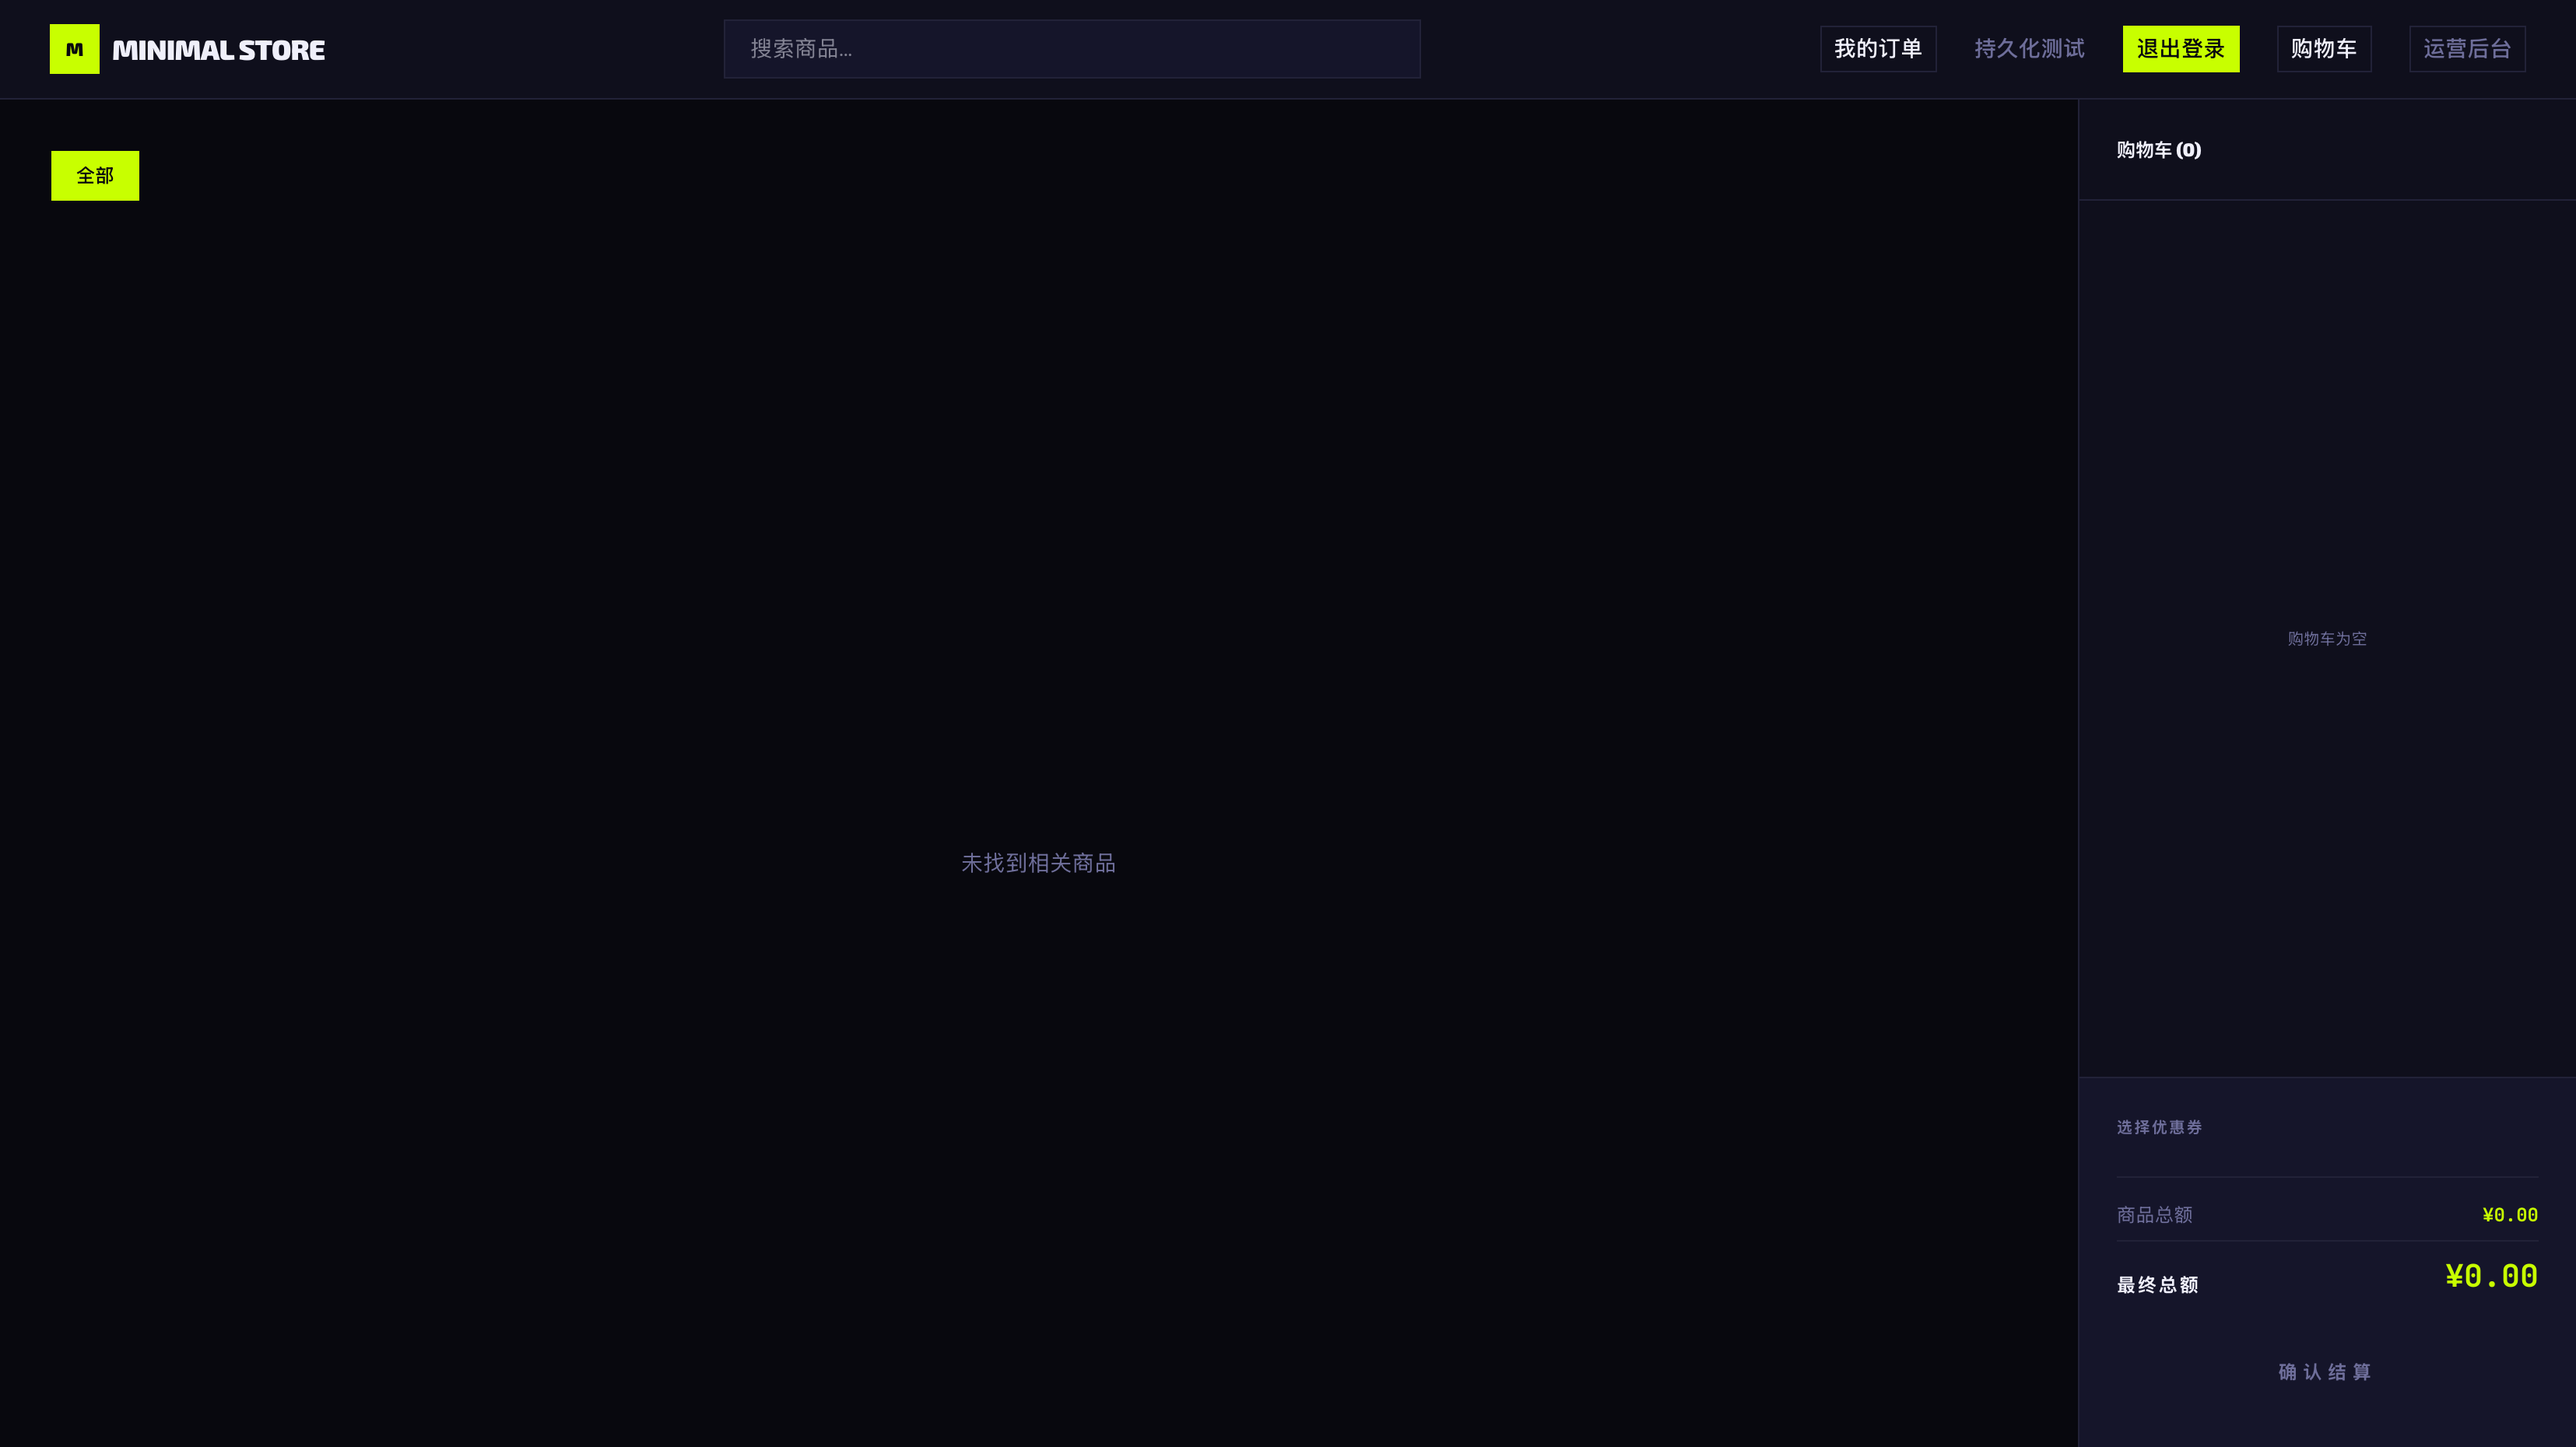
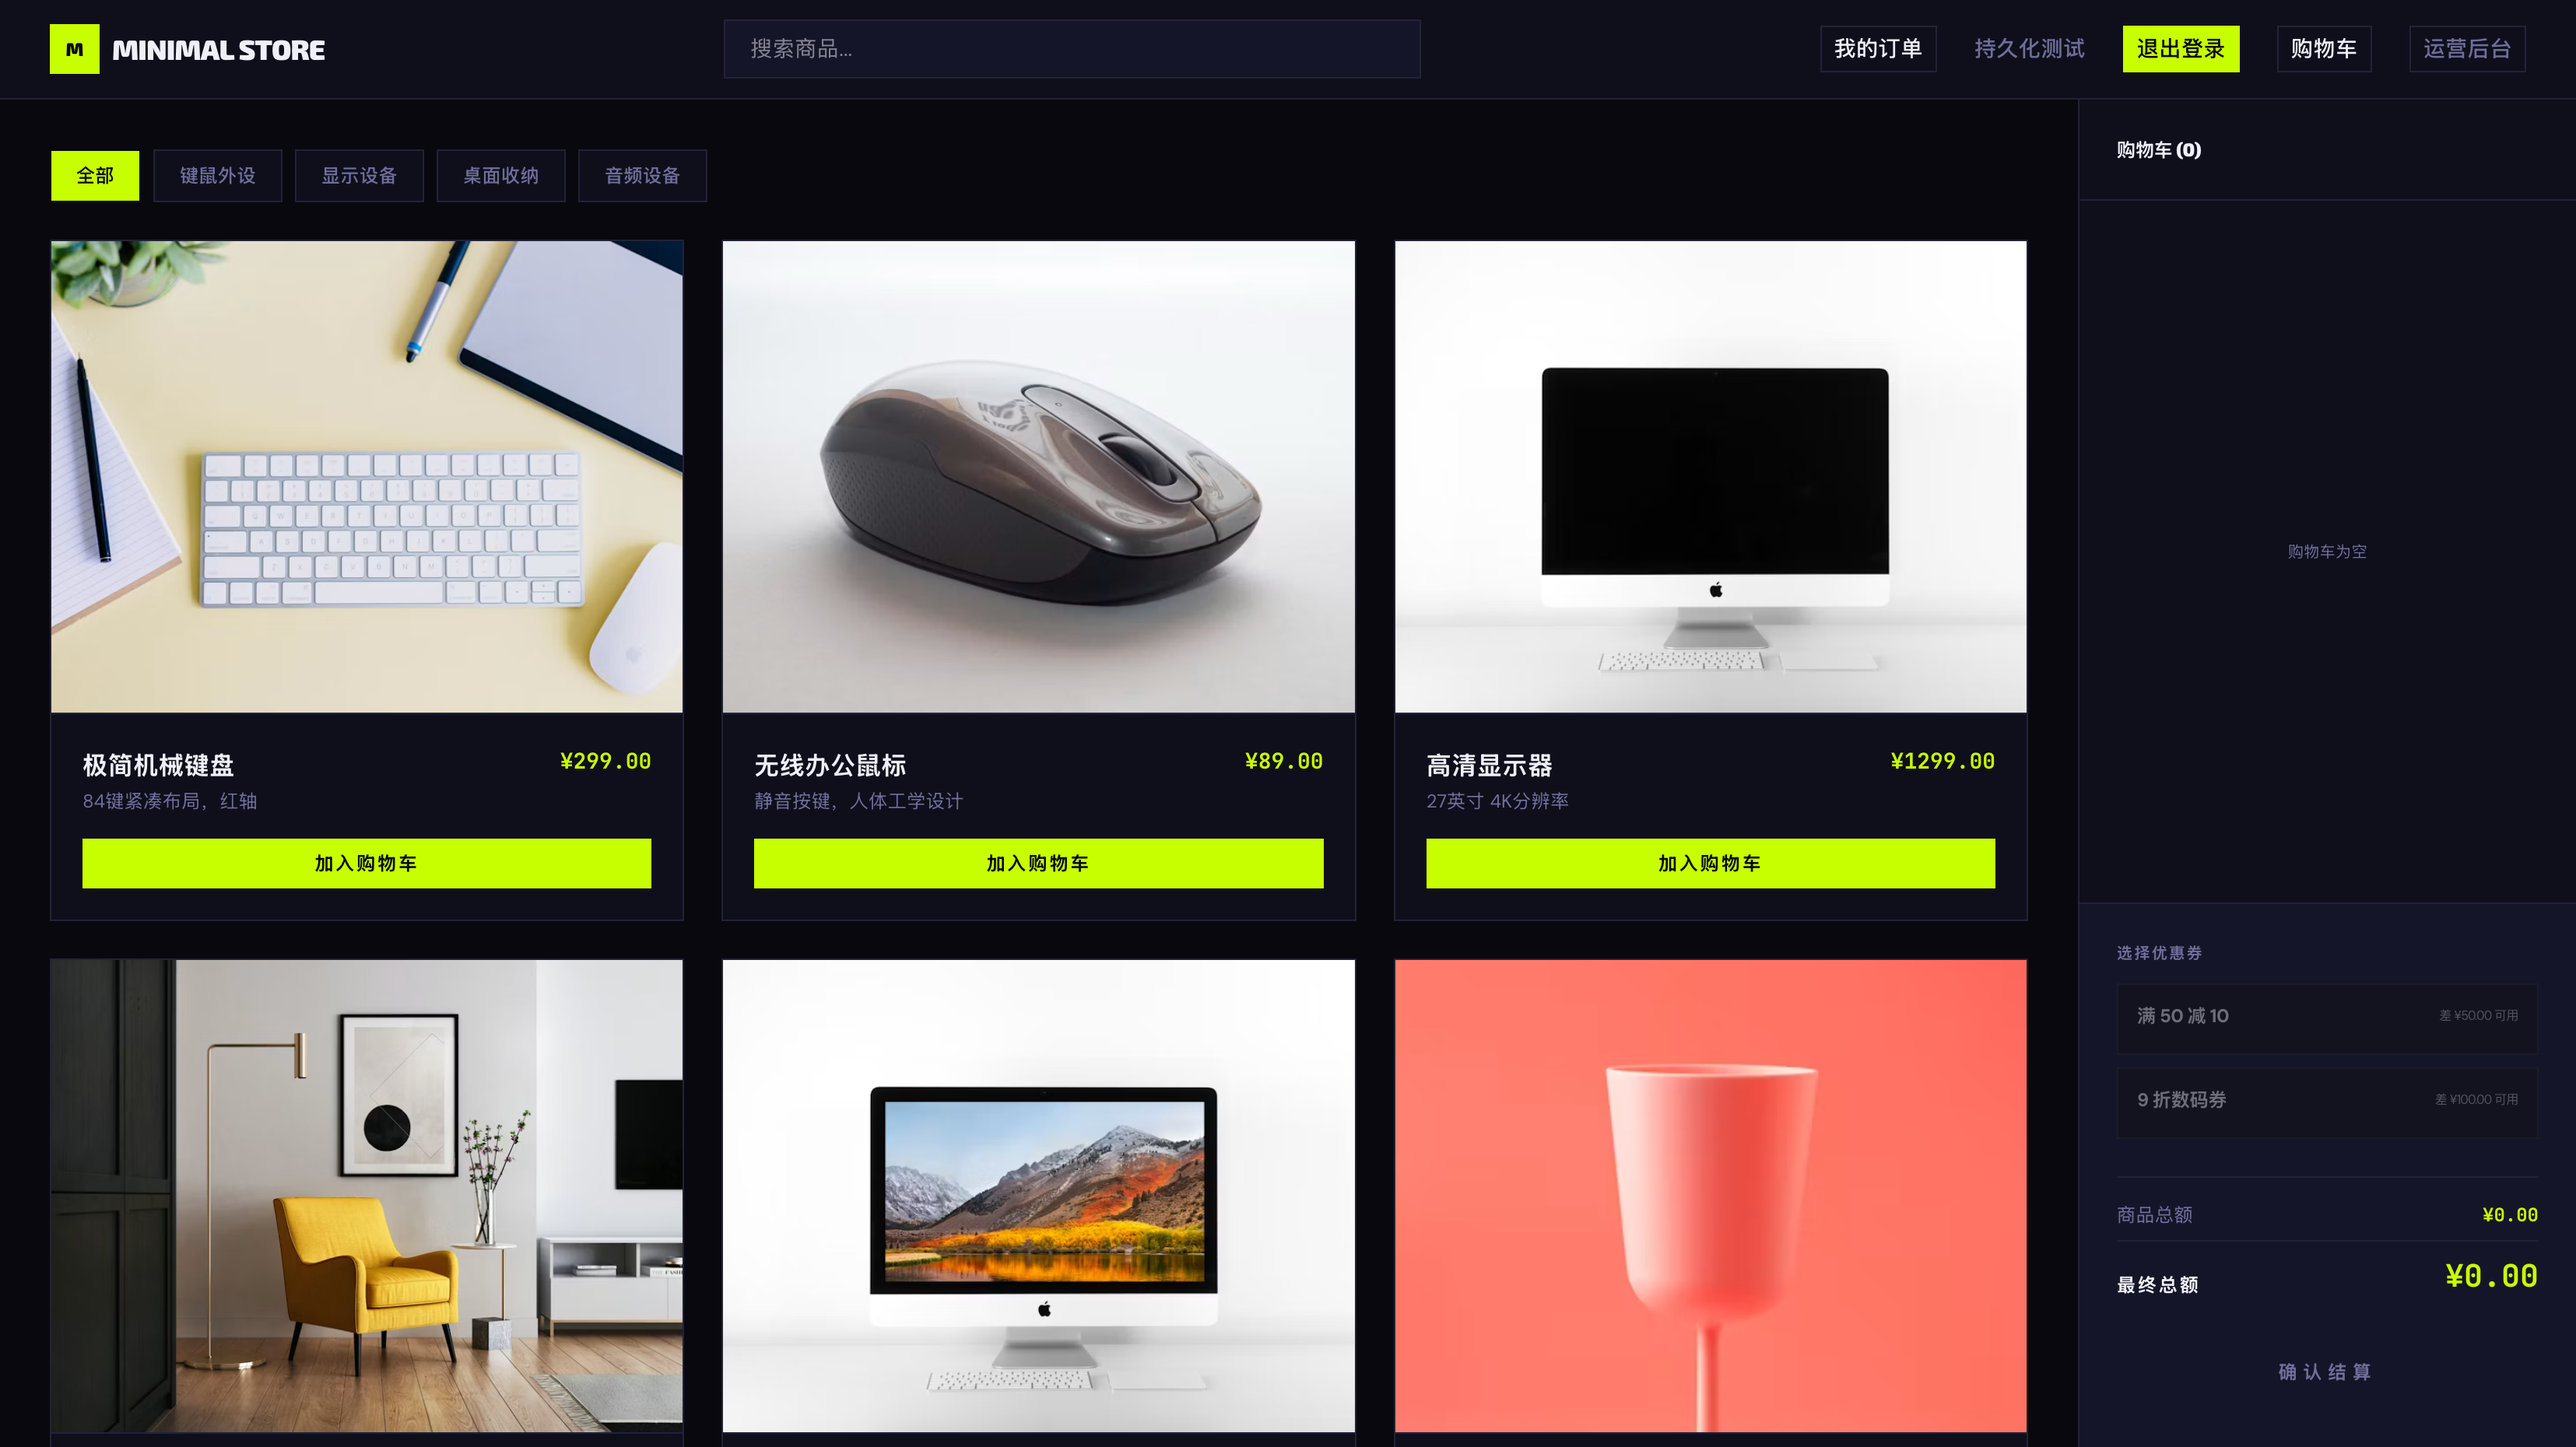
apply new design system

diff --git a/e2e-tests/steps/nav_cb_entry.js b/e2e-tests/steps/nav_cb_entry.js
@@ -75,7 +75,7 @@ Then('C 端 header 不存在「店铺 | 运营后台」分段切换控件', asyn
   // 分段切换控件（店铺 | 运营后台）已移除：header 中不应存在「店铺」独立切换按钮
   expect(await header.locator('button:has-text("店铺")').count()).to.equal(0);
   // 分段容器（含「店铺」按钮且并列「运营后台」按钮）不应存在
-  const segment = header.locator('div.flex.items-center.border.border-slate-200.text-xs.font-bold');
+  const segment = header.locator('div.flex.items-center.border.border-border.text-xs.font-bold');
   expect(await segment.count()).to.equal(0);
 });
 

diff --git a/e2e-tests/steps/account_register.js b/e2e-tests/steps/account_register.js
@@ -74,7 +74,8 @@ Then('页面提示"该手机号已注册，请直接登录"', async function () 
 });
 
 Then('页面提供跳转登录入口', async function () {
-  const banner = this.page.locator('div.bg-red-50').first();
+  // 行为断言：错误横幅提示「去登录」入口存在（ZAPP 语义令牌 bg-accent/10 + text-accent，不再依赖旧视觉类名）
+  const banner = this.page.locator('div.text-accent').first();
   const text = await banner.textContent();
   expect(text).to.contain('去登录');
 });
